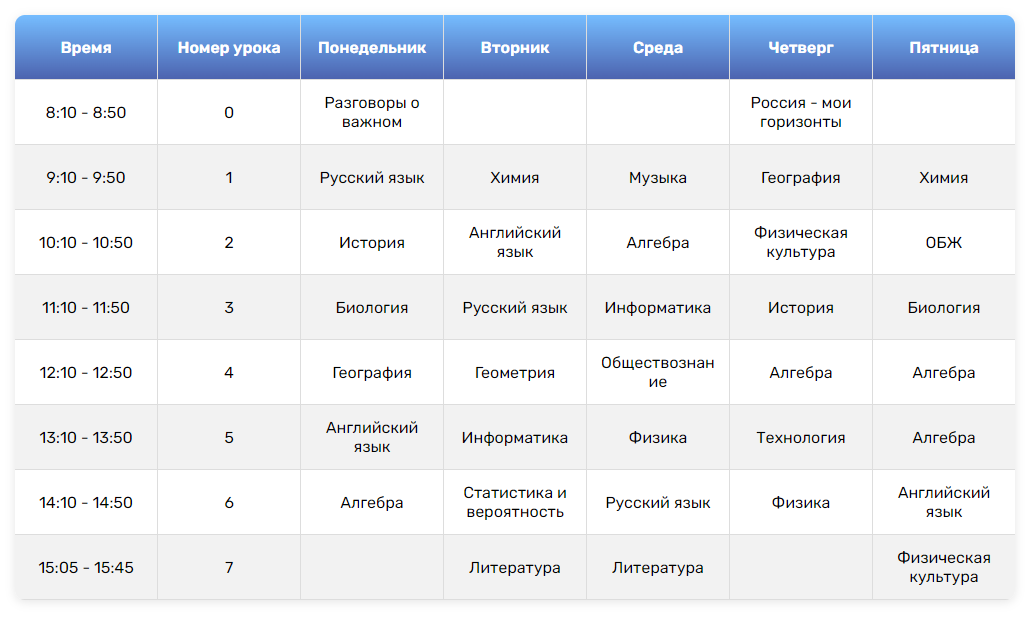
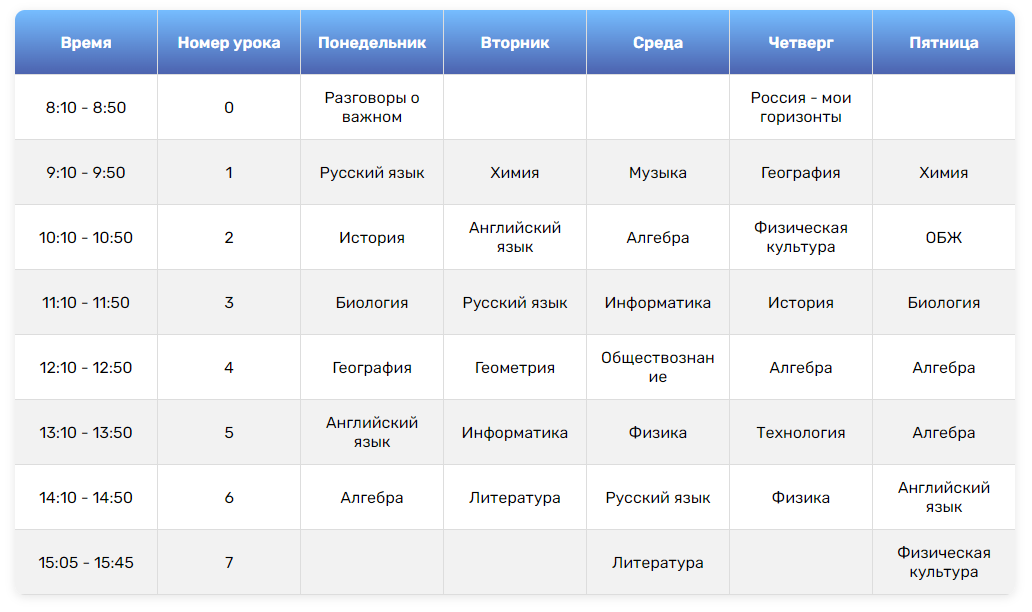
Update timetable

diff --git a/index.html b/index.html
@@ -93,7 +93,7 @@
                         <td>14:10 - 14:50</td>
                         <td>6</td>
                         <td>Алгебра</td>
-                        <td>Статистика и вероятность</td>
+                        <td>Литература</td>
                         <td>Русский язык</td>
                         <td>Физика</td>
                         <td>Английский язык</td>
@@ -102,7 +102,7 @@
                         <td>15:05 - 15:45</td>
                         <td>7</td>
                         <td></td>
-                        <td>Литература</td>
+                        <td></td>
                         <td>Литература</td>
                         <td></td>
                         <td>Физическая культура</td>
